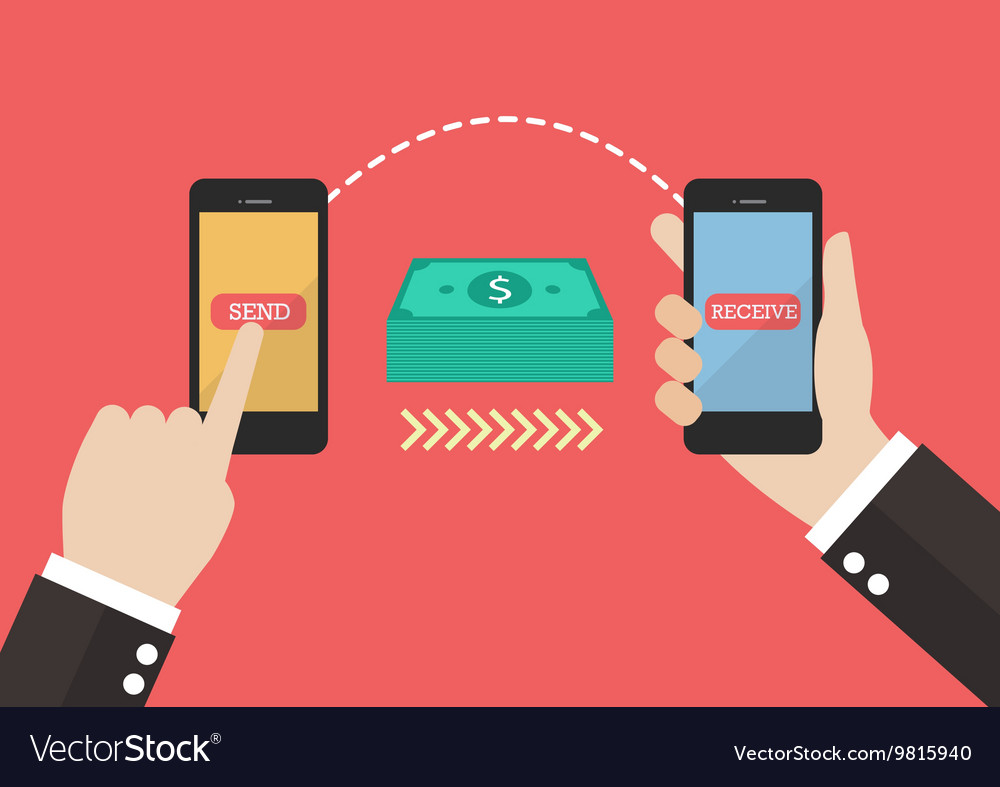
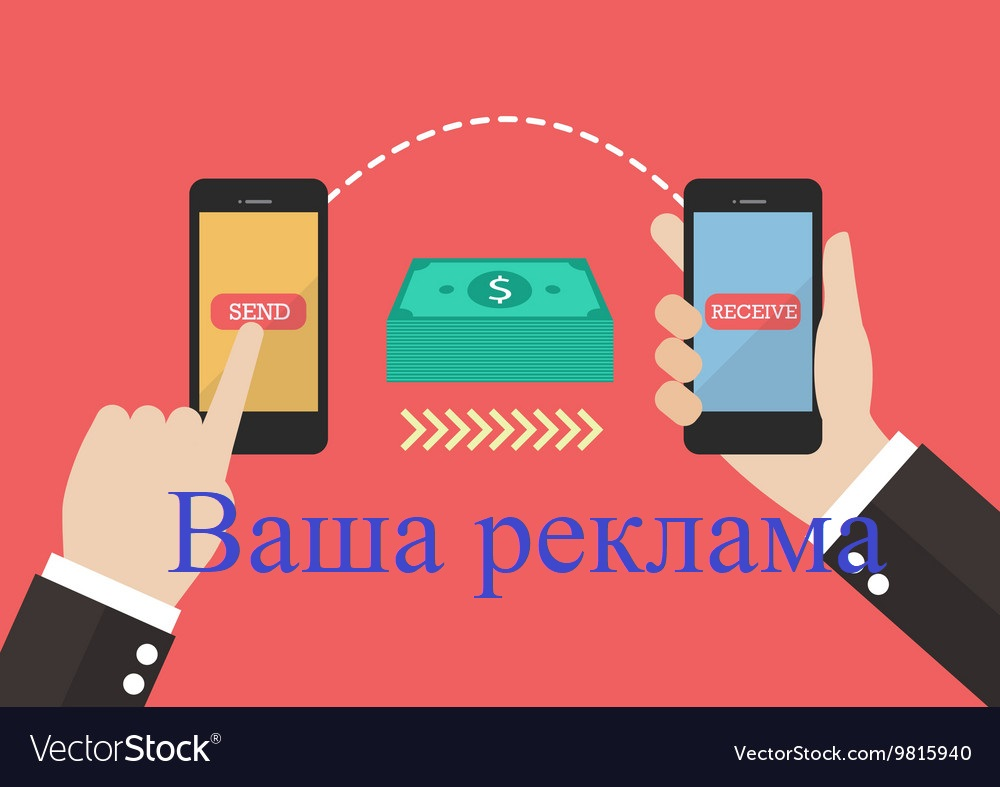
adding

diff --git a/StrainBrain/Views/QuestionPage.xaml b/StrainBrain/Views/QuestionPage.xaml
@@ -5,17 +5,23 @@
              Title="QuestionPage"
              Shell.TabBarIsVisible="False"
              xmlns:viewModels="clr-namespace:StrainBrain.ViewModels"
-             xmlns:models="clr-namespace:StrainBrain.Models"    
+             xmlns:models="clr-namespace:StrainBrain.Models" 
+             xmlns:controls="clr-namespace:StrainBrain.TemplateControls"
              >
     <ScrollView>
+
         <StackLayout
-            HorizontalOptions="Center"
-            VerticalOptions="Center">
+            Padding="0">
+            <controls:AdsControl
+                IsVisible="{Binding IsAdvertisement}"/>
 
             <StackLayout
-                    IsVisible="{Binding IsLoading}"
-                    HeightRequest="100"
-                    WidthRequest="100">
+                IsVisible="{Binding IsLoading}"
+                HeightRequest="100"
+                WidthRequest="100"
+                HorizontalOptions="CenterAndExpand"
+                VerticalOptions="CenterAndExpand">
+
                 <Frame
                     HeightRequest="100"
                     WidthRequest="100"
@@ -29,7 +35,16 @@
                         />
                 </Frame>
             </StackLayout>
-            <Label
+
+            <StackLayout
+                HorizontalOptions="Center"
+                VerticalOptions="CenterAndExpand"
+                IsVisible="{Binding IsLoaded}">
+
+
+                
+
+                <Label
                 Text="{Binding QuestionTitle}"
                 HorizontalOptions="Center"
                 VerticalOptions="Center"
@@ -39,121 +54,103 @@
                 Grid.Row="0"
                 LineBreakMode="WordWrap"/>
 
-            <StackLayout
+                <StackLayout
                 Orientation="Vertical"
                 Margin="15"
                 Spacing="10"
                 Grid.Row="1">
-                <Frame
+                    <Frame
                     BackgroundColor="{x:StaticResource White60}"
                     BorderColor="Transparent"
                     HorizontalOptions="FillAndExpand">
-                    <StackLayout>
-                        <Label
+                        <StackLayout>
+                            <Label
                             Text="{Binding ChoiceOne}"
                             LineBreakMode="WordWrap"
                             MaxLines="2"
                             TextColor="{x:StaticResource White}"
                             />
-                    </StackLayout>
+                        </StackLayout>
 
-                    <Frame.GestureRecognizers>
-                        <TapGestureRecognizer
+                        <Frame.GestureRecognizers>
+                            <TapGestureRecognizer
                             NumberOfTapsRequired="1"
                             Command="{Binding Source={RelativeSource AncestorType={x:Type viewModels:QuestionViewModel}}, Path=AnswerTapped}"
                             CommandParameter="{Binding ChoiceOne}"/>
-                    </Frame.GestureRecognizers>
-                </Frame>
+                        </Frame.GestureRecognizers>
+                    </Frame>
 
-                <Frame
+                    <Frame
                     BackgroundColor="{x:StaticResource White60}"
                     BorderColor="Transparent"
                     HorizontalOptions="FillAndExpand">
-                    <StackLayout>
-                        <Label
+                        <StackLayout>
+                            <Label
                             Text="{Binding ChoiceTwo}"
                             LineBreakMode="WordWrap"
                             MaxLines="2"
                             TextColor="{x:StaticResource White}"
                             />
-                    </StackLayout>
+                        </StackLayout>
 
-                    <Frame.GestureRecognizers>
-                        <TapGestureRecognizer
+                        <Frame.GestureRecognizers>
+                            <TapGestureRecognizer
                             NumberOfTapsRequired="1"
                             Command="{Binding Source={RelativeSource AncestorType={x:Type viewModels:QuestionViewModel}}, Path=AnswerTapped}"
                             CommandParameter="{Binding ChoiceTwo}"/>
-                    </Frame.GestureRecognizers>
-                </Frame>
+                        </Frame.GestureRecognizers>
+                    </Frame>
 
-                
 
-                <Frame
+
+                    <Frame
                     BackgroundColor="{x:StaticResource White60}"
                     BorderColor="Transparent"
                     HorizontalOptions="FillAndExpand">
-                    <StackLayout>
-                        <Label
+                        <StackLayout>
+                            <Label
                             Text="{Binding ChoiceThree}"
                             LineBreakMode="WordWrap"
                             MaxLines="2"
                             TextColor="{x:StaticResource White}"
                             />
-                    </StackLayout>
+                        </StackLayout>
 
-                    <Frame.GestureRecognizers>
-                        <TapGestureRecognizer
+                        <Frame.GestureRecognizers>
+                            <TapGestureRecognizer
                             NumberOfTapsRequired="1"
                             Command="{Binding Source={RelativeSource AncestorType={x:Type viewModels:QuestionViewModel}}, Path=AnswerTapped}"
                             CommandParameter="{Binding ChoiceThree}"/>
-                    </Frame.GestureRecognizers>
-                </Frame>
+                        </Frame.GestureRecognizers>
+                    </Frame>
 
-                <Frame
+                    <Frame
                     BackgroundColor="{x:StaticResource White60}"
                     BorderColor="Transparent"
                     HorizontalOptions="FillAndExpand">
-                    <StackLayout>
-                        <Label
+                        <StackLayout>
+                            <Label
                             Text="{Binding ChoiceFour}"
                             LineBreakMode="WordWrap"
                             MaxLines="2"
                             TextColor="{x:StaticResource White}"
                             />
-                    </StackLayout>
+                        </StackLayout>
 
-                    <Frame.GestureRecognizers>
-                        <TapGestureRecognizer
+                        <Frame.GestureRecognizers>
+                            <TapGestureRecognizer
                             NumberOfTapsRequired="1"
                             Command="{Binding Source={RelativeSource AncestorType={x:Type viewModels:QuestionViewModel}}, Path=AnswerTapped}"
                             CommandParameter="{Binding ChoiceFour}"/>
-                    </Frame.GestureRecognizers>
-                </Frame>
-            </StackLayout>
+                        </Frame.GestureRecognizers>
+                    </Frame>
+                </StackLayout>
 
-            <Button
+                <Button
                 Text="Отправить"
                 Command="{Binding TestCommand}"
                 />
+            </StackLayout>
         </StackLayout>
-
-        <!--<StackLayout
-                    Grid.RowSpan="3"
-                    IsVisible="{Binding IsLoading}"
-                    HeightRequest="100"
-                    WidthRequest="100">
-                    <Frame
-                        HeightRequest="100"
-                        WidthRequest="100"
-                        x:Name="ActivityIndicatorFrame">
-                        <ActivityIndicator
-                            IsVisible="{Binding IsLoading}"
-                            IsRunning="{Binding IsLoading}"
-                            Color="{x:StaticResource Green45}"
-                            HorizontalOptions="Center"
-                            VerticalOptions="Center"
-                            />
-                    </Frame>
-                </StackLayout>-->
     </ScrollView>
 </ContentPage>

diff --git a/StrainBrain/TemplateControls/AdsControl.xaml b/StrainBrain/TemplateControls/AdsControl.xaml
@@ -1,0 +1,11 @@
+<?xml version="1.0" encoding="utf-8" ?>
+<StackLayout xmlns="http://schemas.microsoft.com/dotnet/2021/maui"
+             xmlns:x="http://schemas.microsoft.com/winfx/2009/xaml"
+             x:Class="StrainBrain.TemplateControls.AdsControl"
+             VerticalOptions="FillAndExpand">
+        <Image
+            Source="transfer.jpg"
+            HorizontalOptions="FillAndExpand"
+            VerticalOptions="FillAndExpand"
+            Aspect="Fill"/>
+</StackLayout>

diff --git a/StrainBrain/ViewModels/QuestionViewModel.cs b/StrainBrain/ViewModels/QuestionViewModel.cs
@@ -8,13 +8,16 @@ class QuestionViewModel : INotifyPropertyChanged
         question = new Question();
         Questions = new ObservableCollection<Question>();
         _questionId++;
+        IsAdvertisement = false;
+        IsLoaded = false;
         IsLoading = true;
         Task.Run(async () =>
         {
             await LoadQuestion();
         }).GetAwaiter().OnCompleted(() =>
         {
-            
+            IsLoading = false;
+            IsLoaded = true;
         });
 
         //AnswerTapped = new Command<Question>((question) => GetQuestion(question));
@@ -53,6 +56,28 @@ class QuestionViewModel : INotifyPropertyChanged
         set
         {
             _isLoading = value;
+            OnPropertyChanged();
+        }
+    }
+
+    private bool _isLoaded;
+    public bool IsLoaded
+    {
+        get => _isLoaded;
+        set
+        {
+            _isLoaded = value;
+            OnPropertyChanged();
+        }
+    }
+
+    private bool _isAdvertisement;
+    public bool IsAdvertisement
+    {
+        get => _isAdvertisement;
+        set
+        {
+            _isAdvertisement = value;
             OnPropertyChanged();
         }
     }
@@ -184,12 +209,9 @@ class QuestionViewModel : INotifyPropertyChanged
             ChoiceThree = question.ChoiceThree;
             ChoiceFour = question.ChoiceFour;
             question = null;
-
-            IsLoading = false;
         }
         else
         {
-            IsLoading = false;
             await Shell.Current.DisplayAlert("Технические проблемы", "В данный момент происходит техническое обновление, " +
                 "попробуйте позже", "Ок");
 
@@ -202,6 +224,9 @@ class QuestionViewModel : INotifyPropertyChanged
     {
         if (answer != null)
         {
+            IsLoaded = false;
+            IsAdvertisement = true;
+            await Task.Delay(2000);
             question = _questionList.FirstOrDefault(q => q.QuestionId == _questionId);
             if (question != null)
             {
@@ -218,10 +243,15 @@ class QuestionViewModel : INotifyPropertyChanged
                         ChoiceThree = question.ChoiceThree;
                         ChoiceFour = question.ChoiceFour;
                     }
+
+                    IsAdvertisement = false;
+                    IsLoaded = true;
                 }
             }
             else
             {
+                IsAdvertisement = false;
+                IsLoaded = true;
                 await LoadQuestion(10);
             }
         }

diff --git a/StrainBrain/Services/LoginService.cs b/StrainBrain/Services/LoginService.cs
@@ -43,15 +43,8 @@ public class LoginService : ILoginService
                 {
                     var jsonResult = await response.Content.ReadAsStringAsync();
 
-                    var accessToken = jsonResult;
-                    var tokenHandler = new JwtSecurityTokenHandler();
-                    var jwtSecurityToken = tokenHandler.ReadJwtToken(accessToken);
+                    var authenticatedUser = JsonConvert.DeserializeObject<UserResponse>(jsonResult);
 
-                    UserResponse authenticatedUser = new UserResponse();
-                    authenticatedUser.UserId = int.Parse(jwtSecurityToken.Claims.FirstOrDefault(a => a.Type == "UserId")?.Value ?? "0");
-                    authenticatedUser.UserName = jwtSecurityToken.Claims.FirstOrDefault(a => a.Type == ClaimTypes.NameIdentifier).Value;
-                    authenticatedUser.AccessToken = accessToken;
-                    authenticatedUser.UserBalance = double.Parse(jwtSecurityToken.Claims.FirstOrDefault(a => a.Type == "UserBalance")?.Value ?? "0");
 
                     return authenticatedUser;
                 }

diff --git a/StrainBrain/Views/QuestionPage.xaml.cs b/StrainBrain/Views/QuestionPage.xaml.cs
@@ -1,5 +1,6 @@
 namespace StrainBrain.Views;
 
+[XamlCompilation(XamlCompilationOptions.Compile)]
 public partial class QuestionPage : ContentPage
 {
 	public QuestionPage()

diff --git a/StrainBrain/Views/LoginPage.xaml.cs b/StrainBrain/Views/LoginPage.xaml.cs
@@ -1,5 +1,6 @@
 namespace StrainBrain.Views;
 
+[XamlCompilation(XamlCompilationOptions.Compile)]
 public partial class LoginPage : ContentPage
 {
 	public LoginPage()

diff --git a/StrainBrain/TemplateControls/AdsControl.xaml.cs b/StrainBrain/TemplateControls/AdsControl.xaml.cs
@@ -1,0 +1,9 @@
+namespace StrainBrain.TemplateControls;
+
+public partial class AdsControl : StackLayout
+{
+	public AdsControl()
+	{
+		InitializeComponent();
+	}
+}
